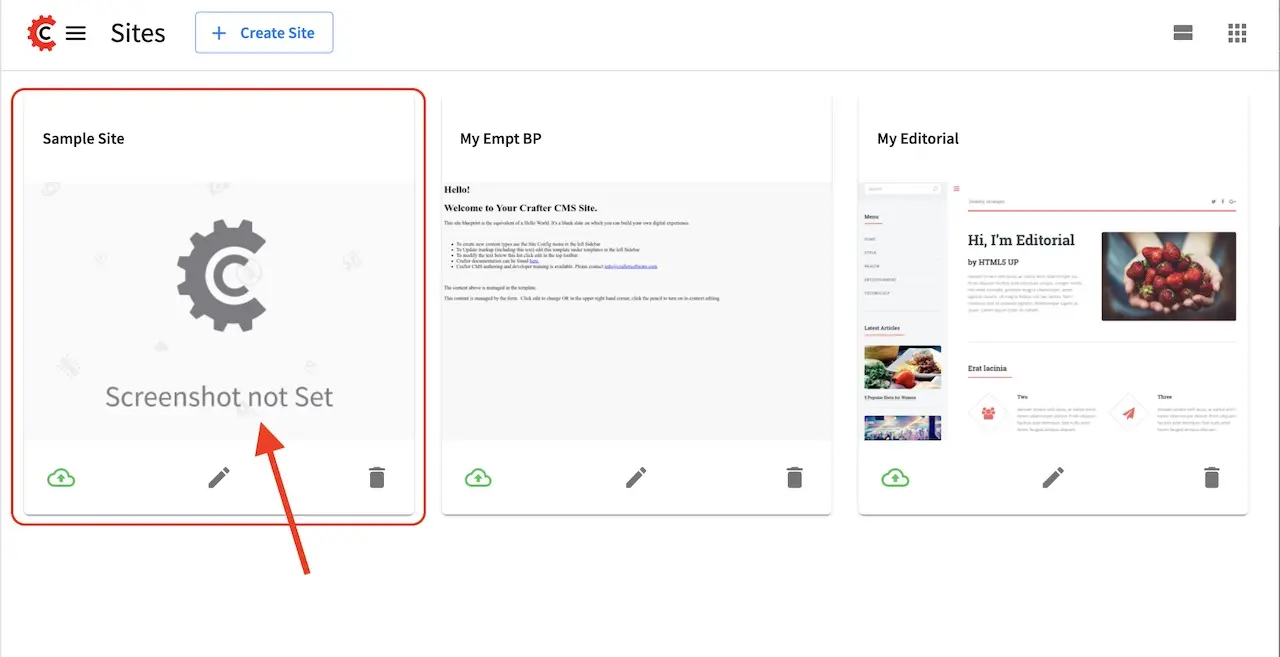
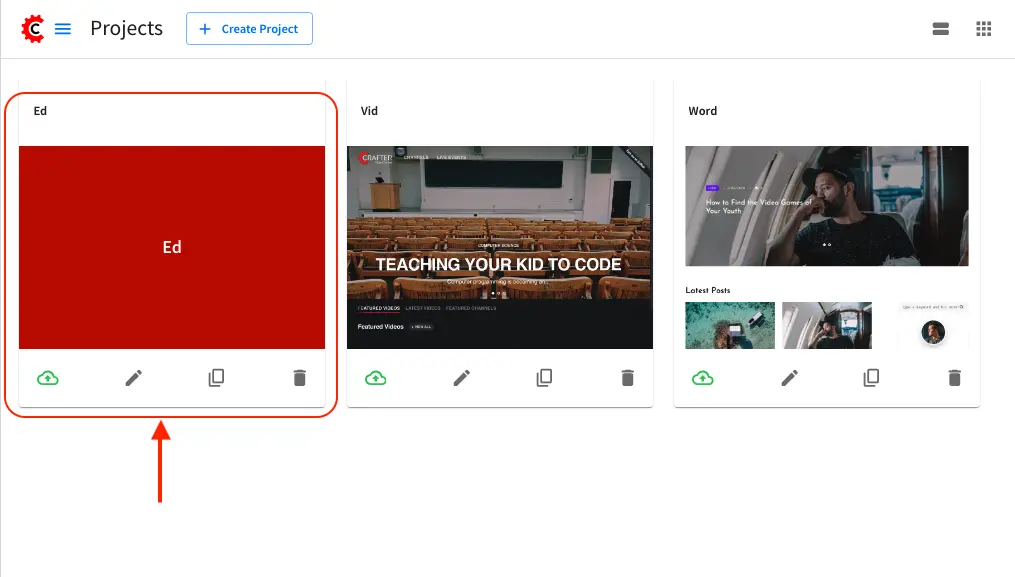
Add article on how to add a default screenshot to a project

diff --git a/source/reference/modules/studio/administration.rst b/source/reference/modules/studio/administration.rst
@@ -1,5 +1,5 @@
 :is-up-to-date: True
-:last-updated: 4.2.0
+:last-updated: 4.2.2
 
 .. index:: Audit, Users, Groups, User Management, Group Management, Cluster, Log Console, Logging Levels, Global Config, Encryption Tool, Navigation Menu
 
@@ -993,13 +993,16 @@ Let's take a look at the fields where the remote repository details needs to be 
 #. In the **Git Branch** field, you can supply a branch name, but can be left blank, which in turn would default to the ``master`` branch.
 #. In the **Git Remote Name** field you want to provide a repository name that makes sense. It’s common to use “origin” or “upstream.”
 
+.. _create-project-based-on-a-blueprint-then-add-a-remote-bare-git-repository:
+
 ^^^^^^^^^^^^^^^^^^^^^^^^^^^^^^^^^^^^^^^^^^^^^^^^^^^^^^^^^^^^^^^^^^^^^^^^^
 Create project based on a blueprint then add a remote bare Git repository
 ^^^^^^^^^^^^^^^^^^^^^^^^^^^^^^^^^^^^^^^^^^^^^^^^^^^^^^^^^^^^^^^^^^^^^^^^^
-To create a project based on a blueprint then add a remote bare git repository, click on **Create Site** from **Sites**, then select the blueprint you would like to use
+To create a project based on a blueprint then add a remote bare git repository, click on **Create Project** from
+**Projects**, then select the blueprint you would like to use
 
 .. image:: /_static/images/developer/dev-cloud-platforms/create-project-then-push-1.webp
-    :alt: Create Site Dialog in Crafter Studio, select a blueprint
+    :alt: Create Project Dialog in Crafter Studio, select a blueprint
     :width: 65 %
     :align: center
 
@@ -1008,14 +1011,16 @@ To create a project based on a blueprint then add a remote bare git repository, 
 The next step is to fill in the **Project ID** and **Project Name**, then click on the **Review** button, then finally  click on the **Create Project** button to create your project. Your project should be created in a short while.
 
 .. image:: /_static/images/developer/dev-cloud-platforms/create-project-then-push-2.webp
-    :alt: Create Site Dialog in Crafter Studio, fill in Site ID
+    :alt: Create Project Dialog in Crafter Studio, fill in Site ID
     :width: 65 %
     :align: center
 
 |
 
-Once your project is created, the next step is to add a remote repository to your newly created project. Open the **Sidebar** then click on **Site Config** -> **Remote Repositories**, then click on the **New Repository** on the top right.
-This will open up a dialog where we can fill in all the information for our remote repository as described above. Click on the **Create** button after filling in the required information.
+Once your project is created, the next step is to add a remote repository to your newly created project. Open the
+**Sidebar** then click on **Project Tools** -> **Git**, then click on the **New Remote** on the top.
+This will open up a dialog where we can fill in all the information for our remote repository as described above.
+Click on the **Create** button after filling in the required information.
 
 .. image:: /_static/images/developer/dev-cloud-platforms/create-project-then-push-3.webp
     :alt: Create Repository dialog to fill in information of remote repository being added to the project
@@ -1024,7 +1029,7 @@ This will open up a dialog where we can fill in all the information for our remo
 
 |
 
-Your project should now have a remote repository listed in the **Remotes** screen
+Your project should now have a remote repository listed in the **Remote Repositories** tab
 
 .. image:: /_static/images/developer/dev-cloud-platforms/create-project-then-push-4.webp
     :alt: Remotes screen displaying newly added remote repository to project
@@ -1065,7 +1070,7 @@ or alternatively for ssh:
 
 |
 
-Click on the **Review** button, then finally, the **Create Site** button.
+Click on the **Review** button, then finally, the **Create Project** button.
 
 
 .. figure:: /_static/images/developer/dev-cloud-platforms/craftercms-github-clone-2.webp

diff --git a/source/by-role/developer/common/add-default-screenshot.rst b/source/by-role/developer/common/add-default-screenshot.rst
@@ -1,0 +1,63 @@
+:is-up-to-date: True
+:last-updated: 4.2.2
+
+.. _adding-a-default-screenshot-to-a-project:
+
+=============================================
+Adding a Default Screenshot to a Project/Site
+=============================================
+CrafterCMS uses a default path (``YOUR_SANDBOX/.crafter/screenshots/default.png``), to look for a default representative
+image of a project/site, as seen in the **Projects** screen:
+
+.. image:: /_static/images/developer/plugins/default-screenshots.webp
+   :alt: *Projects screen with default screenshots*
+   :width: 60%
+   :align: center
+
+|
+
+Projects/sites without a default screenshot are displayed in the **Projects** screen with just the project name and a
+red background like below for the project named ``Ed``:
+
+.. image:: /_static/images/developer/plugins/screenshot-not-set.webp
+   :alt: *Projects screen with no default screenshot for project Ed*
+   :width: 60%
+   :align: center
+
+|
+
+To add or change the default screenshot of your project/site, there are two options:
+
+#. Directly accessing the sandbox folder to create the default file location and then committing it using ``git``
+
+   First, you'll need to create the folder structure/path that CrafterCMS uses to check for a default screenshot,
+   ``/host/path/to/projects/repos/sites/SITENAME/sandbox/.crafter/screenshots/``, if it doesn't exist yet. Next, you'll
+   need to add your default screenshot named ``default.png``.
+
+   After adding ``default.png`` under the directory structure you just created, you'll need to add and commit your
+   changes by using git so Studio is aware of the changes made.
+   To commit your changes , head to ``/host/path/to/projects/repos/sites/SITENAME/sandbox`` to git add your default
+   screenshot file, then commit your changes like below:
+
+   .. code-block:: bash
+
+       cd /host/path/to/projects/repos/sites/SITENAME/sandbox/
+       git add .crafter/screenshots/default.png
+       git commit -m "<the commit’s description>"
+
+   Refresh your browser and you should now be able to see the default image you just committed in the ``Projects`` screen.
+
+#. Pushing the project/site into a remote repository and create the default image file in remote, committing it, and
+   then pulling it back to Studio, using Studio's :ref:`Git project tool <project-tools-git>`.
+
+   To push your project into a remote repository using Studio's :ref:`Git project tool <project-tools-git>`, follow the
+   instructions for adding a remote bare git repository in the
+   :ref:`Studio Administration section <create-project-based-on-a-blueprint-then-add-a-remote-bare-git-repository>`.
+   Your project should now have a remote repository listed in the ``Remote Repository`` tab of the Git project tool screen.
+   The next step is to push the project to the remote repository by clicking on the ``Push`` button (button with the
+   up arrow) next to the remote repository. In the remote repository, create the file ``.crafter/screenshots/default.png``
+   and commit the change. Finally, back in Studio's :ref:`Git project tool <project-tools-git>`, pull the
+   changes in to Studio from the remote repository by clicking on the ``Pull`` button (button with the down arrow).
+
+   Refresh your browser and you should now be able to see the default image you committed in the remote repository in
+   the ``Projects`` screen.

diff --git a/source/by-role/developer/composable/extensions/blueprints.rst b/source/by-role/developer/composable/extensions/blueprints.rst
@@ -1,5 +1,5 @@
 :is-up-to-date: True
-:last-updated: 4.1.1
+:last-updated: 4.2.2
 :orphan:
 
 .. index:: Blueprints, Blueprint, Create a Blueprint
@@ -183,7 +183,8 @@ Adding a default image for a blueprint
 
 CrafterCMS uses a default path for CrafterCMS to look for a default representative image of a blueprint, the url ``../.crafter/screenshots/default.png``
 
-In the ``Projects`` screen where your projects are listed, if your project displays an image with the message **Screenshot not Set**, this means that there is no default image  under the ``.crafter/screenshots/`` folder in your blueprint:
+In the ``Projects`` screen where your projects are listed, if your project displays an image with the project name and a
+red background, this means that there is no default image  under the ``.crafter/screenshots/`` folder in your blueprint:
 
 .. image:: /_static/images/developer/plugins/screenshot-not-set.webp
    :alt: Plugin Descriptor - Screenshot not Set
@@ -196,7 +197,7 @@ To replace the **Screenshot not Set** image for your blueprint, simply add an im
 
 Let's take a look at an example of fixing the **Screenshot not Set** image for an installed project as seen in the above image.
 
-Below are the folders/files for the blueprint used to install the project ``Sample Site``:
+Below are the folders/files for the blueprint used to install the project ``Ed``:
 
 .. image:: /_static/images/developer/plugins/bp-files-w-o-default-image.webp
    :alt: Plugin Descriptor - Blueprint files and folders without a default image
@@ -214,11 +215,11 @@ We'll now fix the image displayed in the ``Projects`` screen after the blueprint
 
 |
 
-When you create a project using the blueprint we fixed above, ``Another Sample Site`` for our example, the project will now have the default image we added to the blueprint:
+When you create a project using the blueprint we fixed above, ``Ed`` for our example, the project will now have the default image we added to the blueprint:
 
 .. image:: /_static/images/developer/plugins/screenshot-default-set.webp
    :alt: Plugin Descriptor - Project created using a blueprint with a default image in ".crafter/screenshots`` folder
-   :width: 60%
+   :width: 70%
    :align: center
 
 |

diff --git a/source/by-role/common/project-tools/project-tools-git.rst b/source/by-role/common/project-tools/project-tools-git.rst
@@ -1,5 +1,5 @@
 :is-up-to-date: True
-:last-updated: 4.0.0
+:last-updated: 4.2.2
 
 .. index:: Project Tools Git
 
@@ -24,10 +24,12 @@ Below, we have a site **mysweetdotcom** with a link to a remote repository in Gi
 
 |
 
+.. _project-tools-git-add-a-repository:
+
 ----------------
 Add a Repository
 ----------------
-To add a remote repository for your site, click on the **New Remote** button. A **Create Repository** dialog will open where you'll need to fill in the required information then click on the **Create** button and you should see the new repository added in the **Remote Repositories**
+To add a remote repository for your site, click on the **New Remote** button. A **New Remote Repository** dialog will open where you'll need to fill in the required information then click on the **Create** button and you should see the new repository added in the **Remote Repositories** tab
 
 .. image:: /_static/images/site-admin/project-tools-add-repo.webp
     :alt: Git - New Repository

diff --git a/source/by-role/developer/index.rst b/source/by-role/developer/index.rst
@@ -1,5 +1,5 @@
 :is-up-to-date: True
-:last-updated: 4.1.8
+:last-updated: 4.2.2
 
 .. _developer:
 
@@ -100,6 +100,8 @@ Aside from the core concepts listed above, a developer needs to be familiar with
       - Provides you information on localizing content
     * - :ref:`developer-environment-variable-access`
       - Provides you information on accessing custom environment variables
+    * - :ref:`adding-a-default-screenshot-to-a-project`
+      - Provides you information on adding a default screenshot to a project
 
 .. toctree::
     :maxdepth: 1
@@ -117,6 +119,7 @@ Aside from the core concepts listed above, a developer needs to be familiar with
     common/adding-a-new-language
     common/localization
     common/environment-variable-access
+    common/add-default-screenshot
 
 .. _developer-headless:
 
